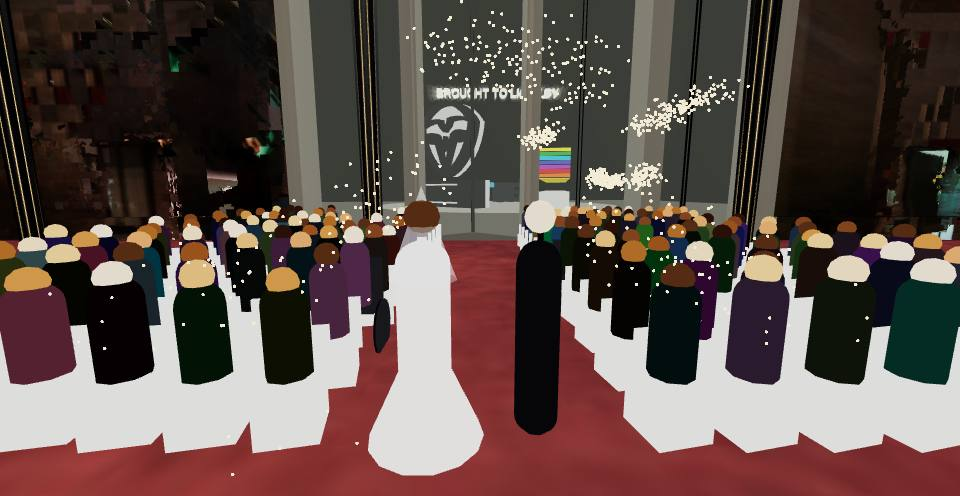
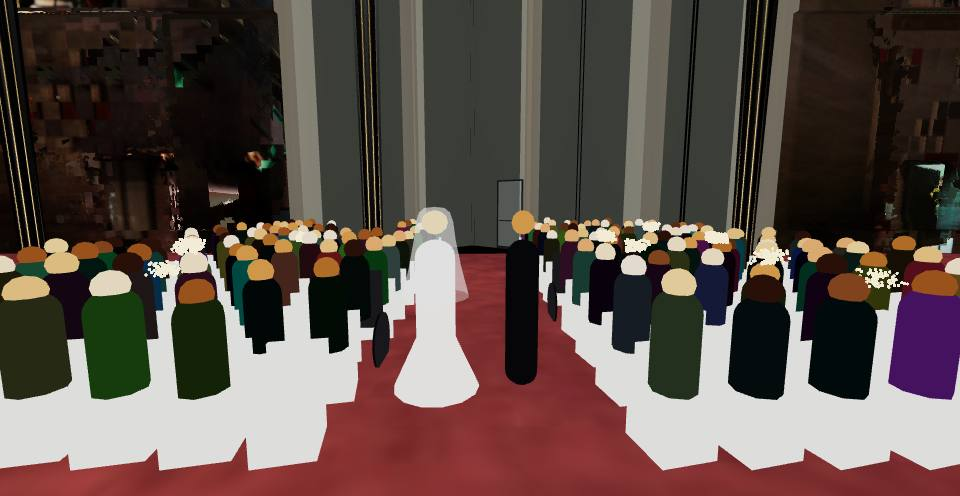
Shot 2 (Lloyd's note, V4): the string quartet plays on the stage, near its end in the shot's frame, with proper instruments (two bouts and a waist, fingerboard to a scroll, the cello upright on its endpin, bows with frogs) and a music stand each. Shot 8 (V5): the guests keep jumping the whole walk. 

diff --git a/index.html b/index.html
@@ -2351,17 +2351,29 @@ function buildDinner(ctx){
   bg.visible=false; eventGroup.add(bg); dinner.waiters.bottles.push(bg); }
  // (Lloyd, V3) a string quartet in front of the stage, in shot 2's frame: two violins, a viola
  // and a cello on chairs in a shallow arc, facing the room, bows going
- { const qU=[25.4,26.4,27.4,28.4], qD=[4.95,4.75,4.75,4.95], S1={x:1,y:1,z:1}; const qp=peopleMeshes(4,0.55); const qc=new THREE.InstancedMesh(new THREE.BoxGeometry(0.42,0.5,0.42),eventMat(0x2e2b28,0x4e4a46),4);
+ // (Lloyd, V4) the quartet plays ON the stage, 0.6 m up, near its front on the right of the
+ // screen, in shot 2's frame; the instruments are built properly below
+ { const qU=[20.2,21.2,22.2,23.2], qD=[2.4,2.2,2.2,2.4], dy=EVENT.stageH, S1={x:1,y:1,z:1}; const qp=peopleMeshes(4,0.55); const qc=new THREE.InstancedMesh(new THREE.BoxGeometry(0.42,0.5,0.42),eventMat(0x2e2b28,0x4e4a46),4);
   const wood=new THREE.MeshBasicMaterial({color:0x7a4322}), dark=new THREE.MeshBasicMaterial({color:0x2a1608}), hair=new THREE.MeshBasicMaterial({color:0xe8e2d0});
   const yaw=Math.atan2(EVENT.N.inRoom.x,EVENT.N.inRoom.z); dinner.quartet={bm:qp.bm,hm:qp.hm,st:[]};
-  for(let i=0;i<4;i++){ const p=eventPoint(qU[i],0,qD[i]); _cQ.identity(); _cM.compose(_pV.set(p.x,y0+0.25,p.z),_cQ,S1); qc.setMatrixAt(i,_cM);
+  for(let i=0;i<4;i++){ const p=eventPoint(qU[i],0,qD[i]); _cQ.identity(); _cM.compose(_pV.set(p.x,y0+dy+0.25,p.z),_cQ,S1); qc.setMatrixAt(i,_cM);
    // white dinner jackets: concert black vanished against the stage front from shot 2's spot
    qp.bm.setColorAt(i,c.set(0xe8e4dc)); qp.hm.setColorAt(i,c.set(SKIN_TONES[Math.floor(Math.random()*SKIN_TONES.length)]));
-   const cello=i===3, viola=i===2, g=new THREE.Group(); g.position.set(p.x,y0,p.z); g.rotation.y=yaw; eventGroup.add(g);
-   const body=new THREE.Mesh(new THREE.SphereGeometry(1,10,8),wood); const neck=new THREE.Mesh(new THREE.BoxGeometry(1,1,1),dark); const bowG=new THREE.Group(); const bow=new THREE.Mesh(new THREE.BoxGeometry(1,1,1),hair);
-   if(cello){ body.scale.set(0.2,0.34,0.09); body.position.set(0.05,0.62,0.3); neck.scale.set(0.04,0.55,0.03); neck.position.set(0.05,1.05,0.28); bowG.position.set(0.18,0.75,0.36); bow.scale.set(0.5,0.012,0.012); bow.position.x=0.2; }
-   else { const sc=viola?1.15:1; body.scale.set(0.11*sc,0.17*sc,0.04); body.position.set(-0.16,1.03,0.2); body.rotation.z=0.5; neck.scale.set(0.35*sc,0.025,0.02); neck.position.set(-0.36,1.13,0.2); neck.rotation.z=0.5; bowG.position.set(-0.1,1.06,0.24); bow.scale.set(0.012,0.45,0.012); bow.position.y=-0.1; bow.rotation.z=-0.3; }
-   bowG.add(bow); g.add(body,neck,bowG); dinner.quartet.st.push({i,x:p.x,z:p.z,cello,bow:bowG,ph:Math.random()*6.28}); }
+   const cello=i===3, viola=i===2, g=new THREE.Group(); g.position.set(p.x,y0+dy,p.z); g.rotation.y=yaw; eventGroup.add(g);
+   // (Lloyd, V4) the instruments, more like the real things: two bouts with a waist, a dark
+   // fingerboard to a scroll, the bow with its frog; the cello upright on its endpin between the
+   // knees, the violins and viola under the chin pointing out to the left; a music stand each
+   const mk=(geo,mat,sx,sy,sz,x,y,z,rz,rx)=>{ const m=new THREE.Mesh(geo,mat); m.scale.set(sx,sy,sz); m.position.set(x,y,z); if(rz)m.rotation.z=rz; if(rx)m.rotation.x=rx; return m; };
+   const SPH=new THREE.SphereGeometry(1,12,9), BOX=new THREE.BoxGeometry(1,1,1), CYL=new THREE.CylinderGeometry(1,1,1,10);
+   const bowG=new THREE.Group(), inst=new THREE.Group(); g.add(inst,bowG);
+   if(cello){ inst.position.set(0.06,0,0.34); inst.rotation.x=-0.18;
+    inst.add(mk(SPH,wood,0.2,0.24,0.1,0,0.55,0), mk(SPH,wood,0.17,0.2,0.1,0,0.86,0), mk(BOX,dark,0.05,0.7,0.03,0,1.2,0.04), mk(SPH,dark,0.04,0.05,0.04,0,1.58,0.04), mk(CYL,dark,0.008,0.5,0.008,0,0.22,0), mk(BOX,dark,0.13,0.02,0.02,0,0.7,0.09));
+    bowG.position.set(0.2,0.8,0.42); bowG.add(mk(BOX,hair,0.62,0.012,0.012,0.2,0,0), mk(BOX,dark,0.03,0.03,0.02,-0.08,0,0)); }
+   else { const sc=viola?1.15:1; inst.position.set(-0.12,1.02,0.2); inst.rotation.z=0.5; inst.rotation.y=-0.35;
+    inst.add(mk(SPH,wood,0.11*sc,0.13*sc,0.035,0,-0.06*sc,0), mk(SPH,wood,0.09*sc,0.1*sc,0.035,0,0.1*sc,0), mk(BOX,dark,0.025,0.34*sc,0.015,0,0.27*sc,0.02), mk(SPH,dark,0.03,0.03,0.03,0,0.45*sc,0.02), mk(BOX,dark,0.06,0.015,0.01,0,-0.03,0.04));
+    bowG.position.set(-0.1,1.06,0.24); bowG.add(mk(BOX,hair,0.012,0.5,0.012,0,-0.12,0,-0.3), mk(BOX,dark,0.02,0.03,0.03,0.04,0.1,0,-0.3)); }
+   g.add(mk(CYL,dark,0.012,0.9,0.012,-0.05,0.45,0.62), mk(BOX,dark,0.34,0.26,0.01,-0.05,1.0,0.62,0,-0.4));
+   dinner.quartet.st.push({i,x:p.x,z:p.z,dy,cello,bow:bowG,ph:Math.random()*6.28}); }
   qp.bm.instanceColor.needsUpdate=true; qp.hm.instanceColor.needsUpdate=true; for(const m of [qc,qp.bm,qp.hm]){ m.frustumCulled=false; eventGroup.add(m); } }
  eventGroup.add(tm,lm,cm,pm,fm,km,bk,bm,hm,wt.bm,wt.hm,tray);
  addWheelchairs(ctx,[[lanesU[1],lanesD[0]],[lanesU[cols-2],lanesD[1]]]);
@@ -2401,7 +2413,7 @@ function updateDinner(dt,t,ctx){
   const gb=D.glassBase[i]; if(gb&&(sq>0||s.sipWas)){ s.sipWas=sq>0; _cQ.identity(); _cM.compose(_pV.set(gb[0]+(s.x-gb[0])*0.85*sq,gb[1]+0.42*sq,gb[2]+(s.z-gb[2])*0.85*sq),_cQ,{x:1,y:1,z:1}); D.km.setMatrixAt(i,_cM); D.km.instanceMatrix.needsUpdate=true; }
  }
  if(D.quartet)for(const q of D.quartet.st){ const sw=Math.sin(t*(q.cello?2.2:2.9)+q.ph); if(q.cello)q.bow.rotation.y=0.5*sw; else q.bow.rotation.x=0.45*sw;
-  poseBH(D.quartet.bm,D.quartet.hm,q.i,q.x,q.z,y0+0.72,y0+1.18+0.02*Math.sin(t*1.3+q.ph),1,1); }
+  poseBH(D.quartet.bm,D.quartet.hm,q.i,q.x,q.z,y0+q.dy+0.72,y0+q.dy+1.18+0.02*Math.sin(t*1.3+q.ph),1,1); }
  if(D.quartet){ D.quartet.bm.instanceMatrix.needsUpdate=true; D.quartet.hm.instanceMatrix.needsUpdate=true; }
  // movers keep a personal bubble: any two closer than half a metre are pushed apart, so nobody
  // ever walks through anybody
@@ -3633,7 +3645,8 @@ function tourSegments(){ const uM=EVENT.wallLen/2, c=EVENT.cols;
   // Celebrate starts the walk; the camera keeps 3.5 m behind the couple, at their shoulder height
   {celebrate:true,dur:26.5, cam:k=>{ const tw=k*26.5, cp=couple(tw), ahead=couple(Math.min(26,tw+1.5));
     // (Lloyd, V3) no sculpture outside the glass in this shot
-    const back=cp.d-3.6, u=tw<=20?uM:cp.u-(cp.u-uM)*0.35; poseAt(EP(u,1.8,Math.max(3.0,back)),EP(ahead.u,1.3,ahead.d)); if(court)court.visible=false; }},
+    const back=cp.d-3.6, u=tw<=20?uM:cp.u-(cp.u-uM)*0.35; poseAt(EP(u,1.8,Math.max(3.0,back)),EP(ahead.u,1.3,ahead.d)); if(court)court.visible=false;
+    confettiUntil=Math.max(confettiUntil,performance.now()/1000+0.3); }},   /* (Lloyd, V5) the guests keep jumping the whole walk */
   // the finale (Lloyd's storyboard): out through the doorway to the sculpture, the marks rise into
   // their triangle, flatten, the year beneath, hold, fade; the half-turn round the sculpture is gone
   {dur:finaleTotal(), cam:k=>finaleStep(k*finaleTotal())},
@@ -4143,9 +4156,12 @@ function buildPortal(){
    vec3 c=mix(vec3(1.0,0.98,0.94),hsv(fract(vP.x*0.16+t*0.07)),0.4);
    // dimmer (Lloyd: the shimmer was over-exposed)
    gl_FragColor=vec4(c*g*0.4,1.0); }`});
+ // (Lloyd) the name above the object is the Voronoi stained glass the titles and the finale use
+ const wordsGlass=makeGlassMat(false); wordsGlass.uniforms.cell.value=0.5;
  const addWords=(font)=>{ const line=(text,size,y,chrome)=>{ const tg=new TextGeometry(text,{font,size,height:chrome?0.12:0.06,curveSegments:4,bevelEnabled:chrome,bevelThickness:0.02,bevelSize:0.015,bevelSegments:2});
    tg.computeBoundingBox(); const b=tg.boundingBox; tg.translate(-(b.min.x+b.max.x)/2,y-(b.min.y+b.max.y)/2,-0.03);
-   const core=new THREE.Mesh(tg,chrome?new THREE.MeshStandardMaterial({color:0xffffff,metalness:1,roughness:0.18,envMapIntensity:2.2,emissive:0x3c4250}):new THREE.MeshBasicMaterial({color:0xffffff,toneMapped:false}));
+   if(chrome)tg.computeVertexNormals();
+   const core=new THREE.Mesh(tg,chrome?wordsGlass:new THREE.MeshBasicMaterial({color:0xffffff,toneMapped:false}));
    const halo=new THREE.Mesh(tg,new THREE.MeshBasicMaterial({color:0xdfe8ff,transparent:true,opacity:chrome?0.12:0.22,blending:THREE.AdditiveBlending,depthWrite:false,toneMapped:false})); halo.scale.set(1.05,1.18,1.6);
    const halo2=halo.clone(); halo2.material=halo.material.clone(); halo2.material.opacity=chrome?0.06:0.1; halo2.scale.set(1.12,1.4,2.4);
    words.add(core,halo,halo2); if(chrome)words.add(new THREE.Mesh(tg,shimmerMat)); };
@@ -4166,7 +4182,7 @@ function buildPortal(){
   if(addWords.regular)cueText(addWords.regular); else new FontLoader().load('https://cdn.jsdelivr.net/npm/three@0.160.0/examples/fonts/helvetiker_regular.typeface.json',f=>{ addWords.regular=f; cueText(f); }); };
  if(buildCourt.font)addWords(buildCourt.font); else new FontLoader().load('https://cdn.jsdelivr.net/npm/three@0.160.0/examples/fonts/helvetiker_bold.typeface.json',f=>{buildCourt.font=f; addWords(f);});
  scene.add(g);
- portal={group:g,centre:C,body,outer,inner,spray,disc,suck,cone,spot,holeR:1.69,words,leds,edgePx:EDGE_PX,mats:[inner.material,sprayMat,portalMat,suckMat,shimmerMat],hit:[...mirrors,inner,disc]};
+ portal={group:g,centre:C,body,outer,inner,spray,disc,suck,cone,spot,holeR:1.69,words,leds,edgePx:EDGE_PX,mats:[inner.material,sprayMat,portalMat,suckMat,shimmerMat,wordsGlass],hit:[...mirrors,inner,disc]};
 }
 function portalStep(now){ const Q=portal; if(!Q)return;   // Q, not P: P is the column pixel buffer
  Q.group.visible=!tour&&!document.getElementById('event').checked&&!roamed;

diff --git a/tour-storyboard.md b/tour-storyboard.md
@@ -114,8 +114,11 @@ V4 (sent 01/09/2026 22:57:03):
 
 A place for community
 
-V5 (draft):
+V5 (sent 01/09/2026 23:26:44):
 [shot 2, 4.7 s] the string quartet should be on stage. Improve their models as well to be more accurate
+
+V6 (draft):
+
 
 ---
 
@@ -160,7 +163,10 @@ V5 (sent 01/09/2026 22:56:01):
 
 More variety in all the extravagant clothing the guests are wearing. Also more food and drink. A proper banquet
 
-V6 (draft):
+V6 (sent 01/09/2026 23:29:11):
+[shot 3, 2.2 s] more lavish and detailed banquet. larger types of food. more variety. also instead of the white tablecloth sides, use a light purple
+
+V7 (draft):
 
 
 ---
@@ -332,8 +338,11 @@ No logos outside for this scene
 V4 (sent 01/09/2026 22:59:23):
 [shot 8, 11.0 s] the rice is phasing through the floor. It should be landing on the floor and staying through the scene
 
-V5 (draft):
+V5 (sent 01/09/2026 23:26:53):
 [shot 8, 6.2 s] the crowd should keep jumping through the scene
+
+V6 (draft):
+
 
 ---
 
@@ -373,8 +382,11 @@ Try to get the enttec and shadow av logos roughly the same size. Maybe make the 
 V4 (sent 01/09/2026 22:44:30):
 The entrance through the glass isn't cut out through the glass walls like this in real life. Each glass window has a door at the bottom of it. Just open one of those doors and walk through it. Don't cut through the wall like this
 
-V5 (draft):
+V5 (sent 01/09/2026 23:26:59):
 The dark blue in gandel hall doesn't contrast well on the black, use different colours
+
+V6 (draft):
+
 
 ---
 
